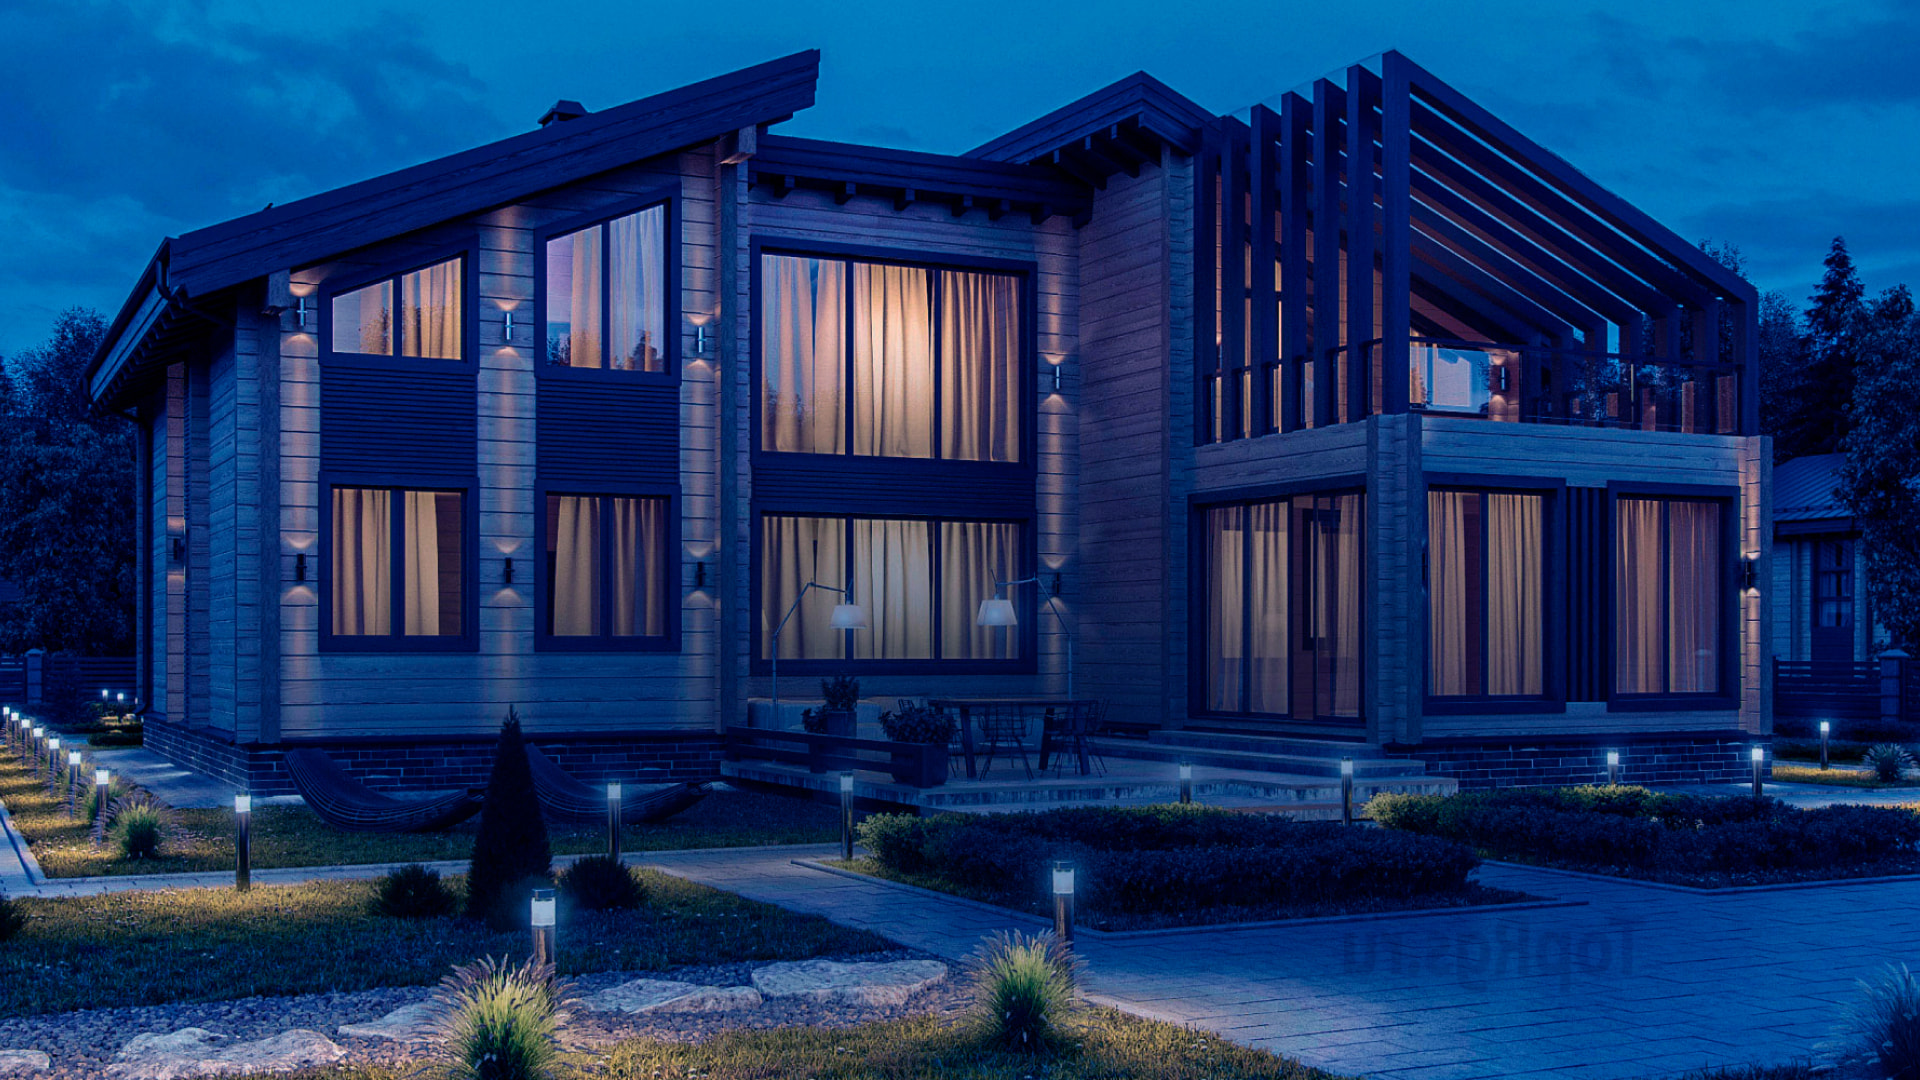
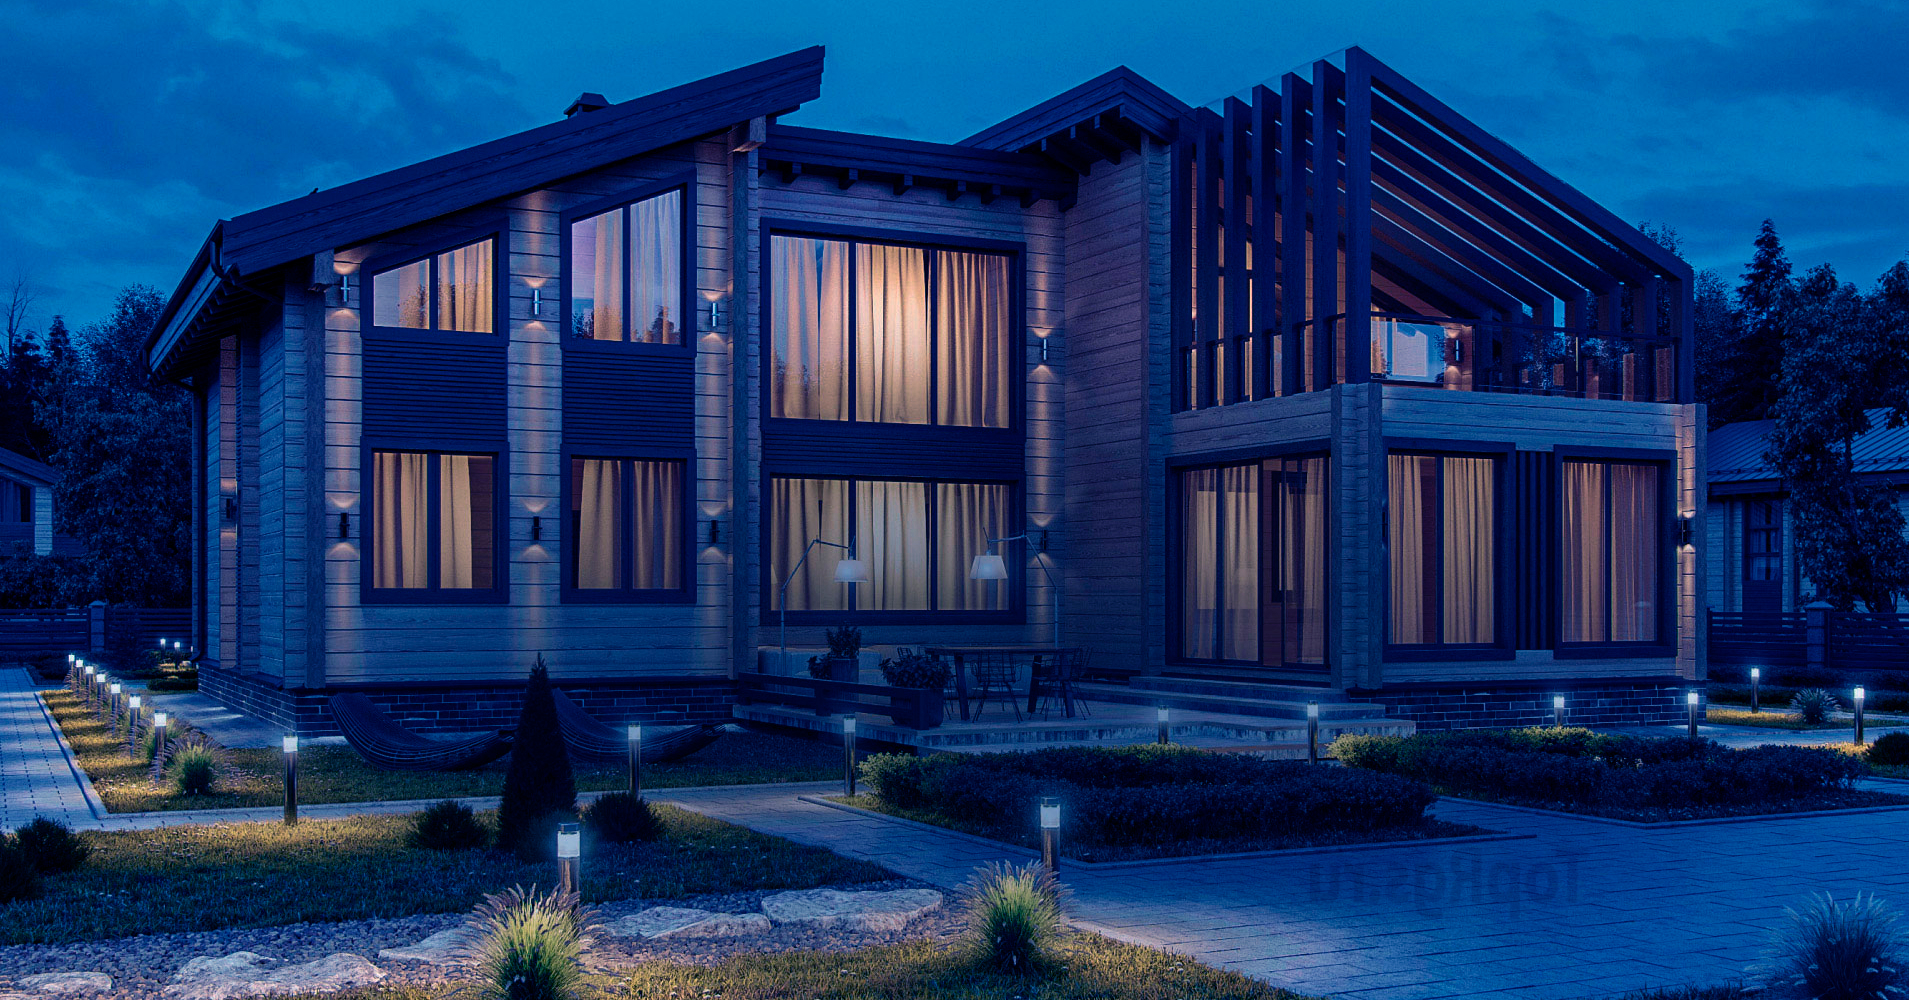
new hero photos

diff --git a/index.html b/index.html
@@ -70,7 +70,7 @@
                         </div>
                     </div>
                 </header>
-                <section class="hero" data-images="./img/index/hero/1.jpg, ./img/index/hero/2.jpg, ./img/index/hero/3.jpg, ./img/index/hero/4.jpg">
+                <section class="hero" data-images="./img/index/hero/1.jpg, ./img/index/hero/2.jpg, ./img/index/hero/3.jpg">
                     <div class="hero-text">
                         <div class="swiper-container hero-slider">
                             <div class="swiper-wrapper">
